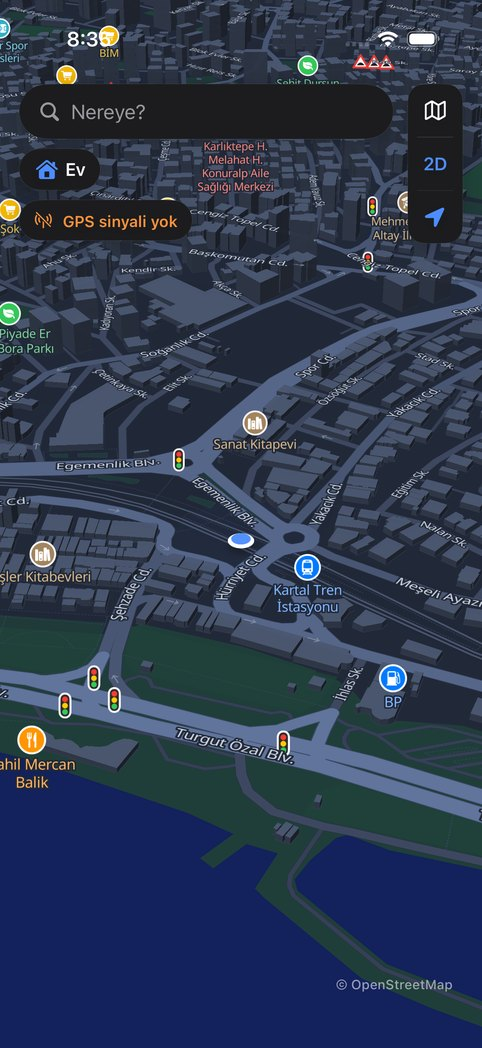
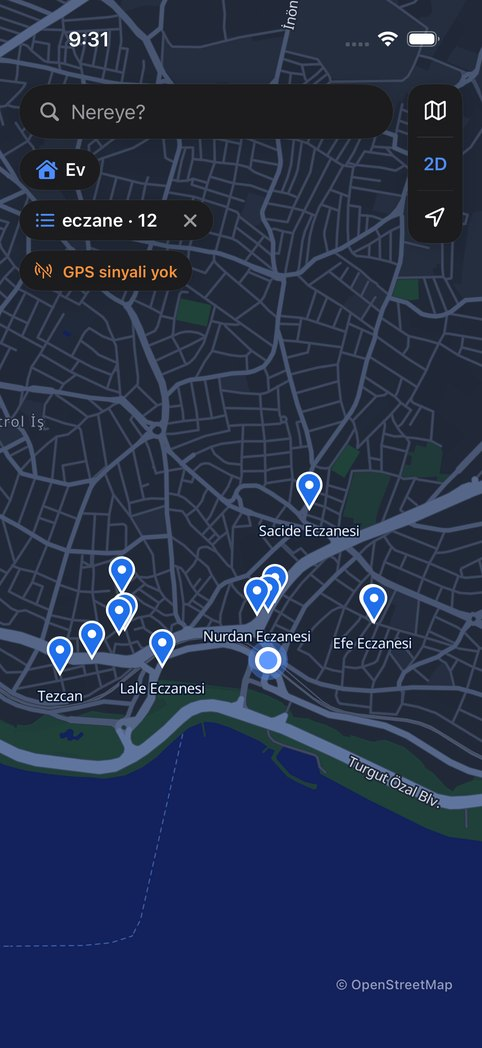
docs: README night screenshot with search results as pins

diff --git a/README.tr.md b/README.tr.md
@@ -15,7 +15,7 @@
 </p>
 <p align="center">
   <img src="docs/screenshots/map-3d.jpg" width="230" alt="3D binalar, trafik ışıkları ve kasisler">
-  <img src="docs/screenshots/map-night.jpg" width="230" alt="Gece haritası">
+  <img src="docs/screenshots/map-night.jpg" width="230" alt="Gece haritasında arama sonuçları iğne olarak">
   <img src="docs/screenshots/search.jpg" width="230" alt="Kısayollar ve son aramalarla arama">
 </p>
 <p align="center"><sub>iOS simülatöründe, İstanbul Kartal'da alınmış CI ekran görüntüleri. Canlı trafik görünmüyor, çünkü CI derlemeleri trafik anahtarı olmadan çalışıyor.</sub></p>

diff --git a/README.md b/README.md
@@ -15,7 +15,7 @@
 </p>
 <p align="center">
   <img src="docs/screenshots/map-3d.jpg" width="230" alt="3D buildings, traffic lights and speed bumps">
-  <img src="docs/screenshots/map-night.jpg" width="230" alt="Night map">
+  <img src="docs/screenshots/map-night.jpg" width="230" alt="Night map with a search's results as pins">
   <img src="docs/screenshots/search.jpg" width="230" alt="Search with shortcuts and recent places">
 </p>
 <p align="center"><sub>CI screenshots from the iOS simulator in Kartal, Istanbul. Live traffic is not shown: CI builds run without a traffic key.</sub></p>
